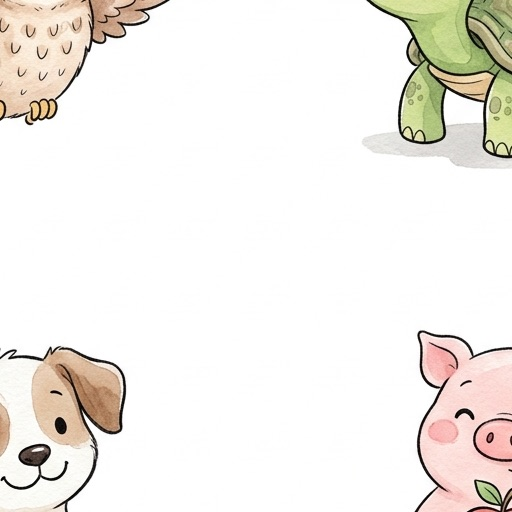
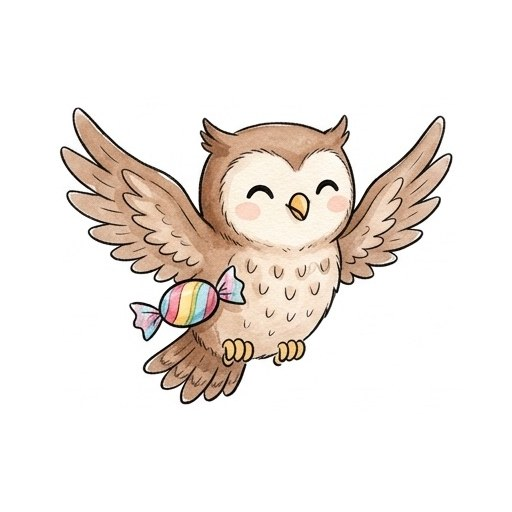
v74: Cắt lại chính xác 24 ảnh nghi phạm Chặng 1 Đảo Thám Tử (sửa lỗi s1 bị lệch tâm & s3 hiện cả 4 nhân vật)

diff --git a/index.html b/index.html
@@ -11,7 +11,7 @@
   <link rel="apple-touch-icon" href="assets/mascot.jpg">
   <link rel="preconnect" href="https://fonts.googleapis.com">
   <link href="https://fonts.googleapis.com/css2?family=Baloo+2:wght@500;600;700;800&display=swap" rel="stylesheet">
-  <link rel="stylesheet" href="css/style.css?v=73">
+  <link rel="stylesheet" href="css/style.css?v=74">
 </head>
 <body>
 
@@ -320,10 +320,10 @@
   <!-- Firebase SDK v8 (Tương thích 100% cú pháp ES5 cho iPadOS 12.5.8 đến iOS 18) -->
   <script src="https://www.gstatic.com/firebasejs/8.10.1/firebase-app.js"></script>
   <script src="https://www.gstatic.com/firebasejs/8.10.1/firebase-database.js"></script>
-  <script src="js/firebase-config.js?v=73"></script>
-  <script src="js/project-config.js?v=73"></script>
-  <script src="js/data.js?v=73"></script>
-  <script src="js/audio-manifest.js?v=73"></script>
-  <script src="js/app.js?v=73"></script>
+  <script src="js/firebase-config.js?v=74"></script>
+  <script src="js/project-config.js?v=74"></script>
+  <script src="js/data.js?v=74"></script>
+  <script src="js/audio-manifest.js?v=74"></script>
+  <script src="js/app.js?v=74"></script>
 </body>
 </html>

diff --git a/js/project-config.js b/js/project-config.js
@@ -6,7 +6,7 @@
 var PROJECT_CONFIG = {
   // 1. Định danh dự án & Bộ nhớ lưu trữ (Đổi storagePrefix khi tạo dự án mới để không trùng dữ liệu)
   appTitle: "Đảo Tri Thức",
-  appVersion: "v73 (22/11/2026) · SGK: Kết Nối Tri Thức 2026 — Đảo Thám Tử: Tranh Vẽ Màu Nước Tự Nhiên.",
+  appVersion: "v74 (22/11/2026) · SGK: Kết Nối Tri Thức 2026 — Đảo Thám Tử: Sửa lỗi cắt ảnh 24 nghi phạm Chặng 1.",
   storagePrefix: "vqtt",
   firebaseRoot: "kidsedu_vqtt",
 
